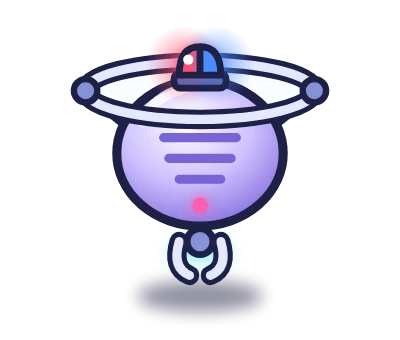
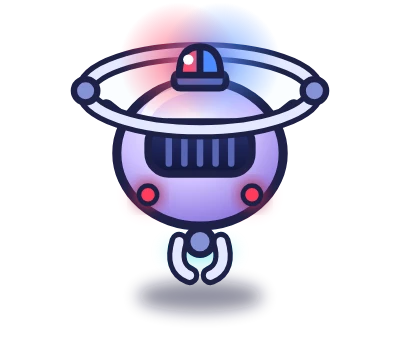
WIP: chase mirror + chevrons, starfield sky, police_front/drone_front, countdown below mirror
Claude-Session: https://claude.ai/code/session_011bftBeXudnSzAMBxDFXhpR

Changed region(s): [[0.21, 0.0294, 0.81, 0.6471]]

diff --git a/engine.js b/engine.js
@@ -3772,7 +3772,8 @@ function r3Rivals() {
 function r3ChaseInit() {
   const C = RACE.chase, base = r3Img(C.sprite); if (!base) return;
   const rid = C.rider ? r3Img(C.rider) : null;
-  R3.chaser = { name: C.name || "", img: r3Tint(base, C.tint || null), rider: rid ? r3Tint(rid, C.riderTint || null) : null,
+  const fr = C.front ? r3Img(C.front) : null;
+  R3.chaser = { name: C.name || "", img: r3Tint(base, C.tint || null), rider: rid ? r3Tint(rid, C.riderTint || null) : null, front: fr,
     scale: C.scale || 6.5, x: 0, z: -1e9, speed: 0, set: false };
   R3.count = C.countdown != null ? C.countdown : 3.2; R3.time = 0; R3.sirenT = 0;
 }
@@ -3819,6 +3820,67 @@ function r3Siren() {
     g.addColorStop(0, `rgba(${c},${a.toFixed(3)})`); g.addColorStop(1, `rgba(${c},0)`);
     ctx.fillStyle = g; ctx.fillRect(x === 0 ? 0 : W * 0.66, 0, W * 0.34, H);
   });
+}
+// how close the pursuer is: 0 (start gap x1.6 or more) → 1 (caught)
+function r3Close() {
+  const ch = R3.chaser; if (!ch || !ch.set) return 0;
+  return R3.caught ? 1 : clamp(1 - (r3PlayerZ() - ch.z) / (R3.segLen * (RACE.chase.startGap || 30) * 1.6), 0, 1);
+}
+// A REAR-VIEW MIRROR at the top of the screen (race.chase.front = the pursuer seen from the front): the road behind
+// recedes to a horizon and the pursuer grows as it closes in, its lights flashing. race.chase.mirror:false hides it.
+function r3Mirror() {
+  const ch = R3.chaser, C = RACE.chase; if (!ch || !ch.set || C.mirror === false || R3.caught) return;
+  const ctx = R3.ctx, W = R3.W, H = R3.H, col = raceColors(), close = r3Close();
+  const mw = Math.min(W * 0.46, 230), mh = mw * 0.42, mx = (W - mw) / 2, my = Math.max(150, H * 0.17), rad = mh * 0.45;
+  const rr = (x, y, w, h, r) => { ctx.beginPath(); ctx.moveTo(x + r, y); ctx.arcTo(x + w, y, x + w, y + h, r); ctx.arcTo(x + w, y + h, x, y + h, r); ctx.arcTo(x, y + h, x, y, r); ctx.arcTo(x, y, x + w, y, r); ctx.closePath(); };
+  ctx.save();
+  // frame + drop shadow
+  ctx.shadowColor = "rgba(0,0,0,.35)"; ctx.shadowBlur = 10; ctx.shadowOffsetY = 4;
+  rr(mx - 5, my - 5, mw + 10, mh + 10, rad + 5); ctx.fillStyle = C.mirrorFrame || "#2a2340"; ctx.fill();
+  ctx.shadowColor = "transparent";
+  rr(mx, my, mw, mh, rad); ctx.clip();
+  // what is behind: sky, ground, the road narrowing to the horizon (mirrored: no left/right sway needed)
+  const hz = my + mh * 0.38, g = ctx.createLinearGradient(0, my, 0, hz);
+  g.addColorStop(0, col.sky[1]); g.addColorStop(1, col.sky[2]); ctx.fillStyle = g; ctx.fillRect(mx, my, mw, hz - my);
+  if (col.stars) { ctx.fillStyle = "#fff"; const rnd = r3Rng(77); for (let i = 0; i < 14; i++) { ctx.globalAlpha = 0.5 + 0.5 * rnd(); ctx.fillRect(mx + rnd() * mw, my + rnd() * (hz - my), 1.2, 1.2); } ctx.globalAlpha = 1; }
+  ctx.fillStyle = col.ground; ctx.fillRect(mx, hz, mw, my + mh - hz);
+  ctx.fillStyle = col.road[0]; ctx.beginPath(); ctx.moveTo(mx + mw * 0.48, hz); ctx.lineTo(mx + mw * 0.52, hz); ctx.lineTo(mx + mw * 0.9, my + mh); ctx.lineTo(mx + mw * 0.1, my + mh); ctx.closePath(); ctx.fill();
+  ctx.strokeStyle = col.lane || "#fff"; ctx.lineWidth = 1.5; ctx.setLineDash([5, 6]); ctx.lineDashOffset = -(R3.pos * 0.05) % 11;
+  ctx.beginPath(); ctx.moveTo(mx + mw * 0.5, hz); ctx.lineTo(mx + mw * 0.5, my + mh); ctx.stroke(); ctx.setLineDash([]);
+  // the pursuer: tiny on the horizon when far, big at the bottom when close
+  const img = ch.front || ch.img;
+  if (img) {
+    const k = 0.18 + close * 0.95, w = mw * 0.5 * k, h = w * img.height / img.width, x = mx + mw / 2 - w / 2 - (R3.playerX - ch.x) * mw * 0.08;
+    const y = hz + (my + mh - hz) * (0.05 + close * 0.85) - h * 0.85;
+    ctx.drawImage(img, x, y, w, h);
+    // flashing lights in the mirror
+    const on = Math.floor(R3.sirenT * 2) % 2, cols = C.sirenColors || ["255,60,80", "60,120,255"];
+    [[-0.25, cols[on]], [0.25, cols[1 - on]]].forEach(([dx, c]) => {
+      const gx = x + w / 2 + dx * w, gy = y + h * 0.12, gr = ctx.createRadialGradient(gx, gy, 0, gx, gy, w * 0.35);
+      gr.addColorStop(0, `rgba(${c},.75)`); gr.addColorStop(1, `rgba(${c},0)`); ctx.fillStyle = gr; ctx.fillRect(gx - w * 0.35, gy - w * 0.35, w * 0.7, w * 0.7);
+    });
+  }
+  // glass sheen
+  const sh = ctx.createLinearGradient(mx, my, mx + mw, my + mh); sh.addColorStop(0, "rgba(255,255,255,.18)"); sh.addColorStop(0.4, "rgba(255,255,255,0)");
+  ctx.fillStyle = sh; ctx.fillRect(mx, my, mw, mh);
+  ctx.restore();
+  R3.mirrorRect = { l: mx - 5, t: my - 5, w: mw + 10, h: mh + 10 };
+}
+// red chevrons rising on both sides of the ride: more, brighter and faster as the pursuer closes in
+function r3Chevrons() {
+  if (!R3.chaser || !R3.chaser.set || !R3.carRect || RACE.chase.arrows === false) return;
+  const close = r3Close(); if (close < 0.3) return;
+  const ctx = R3.ctx, c = R3.carRect, n = close > 0.75 ? 3 : close > 0.5 ? 2 : 1, t = (R3.time || 0) * (1.2 + close * 2.5);
+  ctx.save(); ctx.lineJoin = "round"; ctx.lineCap = "round";
+  [c.l - 18, c.l + c.w + 18].forEach((x) => {
+    for (let i = 0; i < n; i++) {
+      const f = (t + i / n) % 1, y = c.t + c.h * (0.95 - f * 0.55), a = Math.sin(f * Math.PI) * (0.5 + close * 0.5), s = 11 + close * 7;
+      ctx.globalAlpha = a; ctx.lineWidth = 7; ctx.strokeStyle = "rgba(30,10,30,.7)";
+      ctx.beginPath(); ctx.moveTo(x - s, y + s * 0.6); ctx.lineTo(x, y - s * 0.4); ctx.lineTo(x + s, y + s * 0.6); ctx.stroke();
+      ctx.lineWidth = 4; ctx.strokeStyle = RACE.chase.arrowColor || "#ff4d6a"; ctx.stroke();
+    }
+  });
+  ctx.restore();
 }
 function r3ChaseResults() {
   const C = RACE.chase, escaped = !R3.caught && r3PlayerZ() >= R3.finishZ, r = escaped ? (C.reward || 0) : (C.caughtReward || 0);
@@ -3900,8 +3962,9 @@ function r3Countdown() {
   ctx.save(); ctx.globalAlpha = Math.min(1, f * 2.2);
   ctx.font = `800 ${Math.round(Math.min(W, H) * (0.22 + (1 - f) * 0.06))}px ${getComputedStyle(document.body).fontFamily || "sans-serif"}`;
   ctx.textAlign = "center"; ctx.textBaseline = "middle"; ctx.lineJoin = "round";
-  ctx.lineWidth = Math.max(6, W * 0.02); ctx.strokeStyle = "rgba(20,14,40,.85)"; ctx.strokeText(txt, W / 2, H * 0.36);
-  ctx.fillStyle = R3.count > 0 ? "#fff" : (raceColors().rumble[1] || "#ffd24a"); ctx.fillText(txt, W / 2, H * 0.36);
+  const cyT = R3.mirrorRect ? Math.max(H * 0.36, R3.mirrorRect.t + R3.mirrorRect.h + Math.min(W, H) * 0.16) : H * 0.36;   // below the mirror
+  ctx.lineWidth = Math.max(6, W * 0.02); ctx.strokeStyle = "rgba(20,14,40,.85)"; ctx.strokeText(txt, W / 2, cyT);
+  ctx.fillStyle = R3.count > 0 ? "#fff" : (raceColors().rumble[1] || "#ffd24a"); ctx.fillText(txt, W / 2, cyT);
   ctx.restore();
 }
 // race.horizon: the horizon height as a fraction of the screen (0.5); lower it (0.4) on tall phones so the road
@@ -3942,13 +4005,26 @@ function r3Render() {
   }
   ctx.restore();
   if (R3.hitFlash > 0) { ctx.fillStyle = "rgba(255,60,60," + (R3.hitFlash * 0.4).toFixed(3) + ")"; ctx.fillRect(0, 0, W, H); }
-  r3Siren();
+  r3Siren(); r3Mirror(); r3Chevrons();
   r3Countdown();
 }
 function r3Sky(C) {
   const ctx = R3.ctx, W = R3.W, H = R3.H, hz = H * r3Hz(), g = ctx.createLinearGradient(0, 0, 0, hz);
   g.addColorStop(0, C.sky[0]); g.addColorStop(0.55, C.sky[1]); g.addColorStop(1, C.sky[2]);
   ctx.fillStyle = g; ctx.fillRect(0, 0, W, hz);
+  // colors.stars {count, color, twinkle}: a starfield in the sky (space / night races), with a slight parallax
+  if (C.stars) {
+    const S = C.stars === true ? {} : C.stars, n = S.count || 90, rnd = r3Rng(4242), t = (R3.time || 0);
+    ctx.fillStyle = S.color || "#ffffff";
+    for (let i = 0; i < n; i++) {
+      const sx = ((rnd() * W * 1.2 - R3.playerX * 18 * (0.5 + rnd())) % (W * 1.2) + W * 1.2) % (W * 1.2) - W * 0.1;
+      const sy = rnd() * hz * 0.96, r = 0.5 + rnd() * 1.4, ph = rnd() * 6.28;
+      ctx.globalAlpha = (S.twinkle === false ? 0.8 : 0.45 + 0.45 * Math.sin(t * (1 + ph % 2) + ph)) * (0.4 + 0.6 * (1 - sy / hz));
+      ctx.beginPath(); ctx.arc(sx, sy, r, 0, Math.PI * 2); ctx.fill();
+      if (r > 1.6) { ctx.globalAlpha *= 0.5; ctx.fillRect(sx - r * 2.2, sy - 0.4, r * 4.4, 0.8); ctx.fillRect(sx - 0.4, sy - r * 2.2, 0.8, r * 4.4); }
+    }
+    ctx.globalAlpha = 1;
+  }
   if (C.sun) {
     // colors.sunPos {x, y, r} (fractions: x of the width, y of the sky height, r of min(W,H)) moves the sun
     // off the centre — the countdown is drawn there

diff --git a/game.config.js b/game.config.js
@@ -144,7 +144,7 @@ window.GAME = {
       critter_back_aqua: { path: "assets/img/critter_back_aqua.webp", res: 2 }, critter_back_lime: { path: "assets/img/critter_back_lime.webp", res: 2 },
       critter_back_violet: { path: "assets/img/critter_back_violet.webp", res: 2 },
       // race: the keeper robot seen from behind, drawn over the critter (character.raceRider)
-      drone_back: { path: "assets/img/drone_back.webp", res: 2 },   // the Escape pursuer (race.chase)
+      drone_back: { path: "assets/img/drone_back.webp", res: 2 }, drone_front: { path: "assets/img/drone_front.webp", res: 2 },   // the Escape pursuer (race.chase)
       rider_back_aqua: { path: "assets/img/rider_back_aqua.webp", res: 2 }, rider_back_amber: { path: "assets/img/rider_back_amber.webp", res: 2 },
       dust: "assets/img/dust.webp", dust_b: "assets/img/dust_b.webp", cloth: "assets/img/cloth.webp",
       want_dust: { path: "assets/img/want_dust.webp", res: 2 },
@@ -324,7 +324,7 @@ window.GAME = {
     horizon: 0.42,                           // tall phones: more road, less empty sky
     // CHASE variant ("Escape"): a security drone starts behind and closes in; obstacles slow you, it catches up
     chase: {
-      name: "the drone", sprite: "drone_back", scale: 5.5, icon: "drone",
+      name: "the drone", sprite: "drone_back", front: "drone_front", scale: 5.5, icon: "drone",
       startGap: 28, skill: [0.9, 1.05], catchGap: 0.8,
       reward: 35, caughtReward: 3, stat: "chaseEscape",
       startMessage: "{i:drone} A security drone is after you! Reach the finish before it catches you!",
@@ -351,7 +351,7 @@ window.GAME = {
       bumpMessage: "Bump! You hit {name}.",
       goLabel: "GO!",
     },
-    colors: { sky: ["#0b1029", "#2a1d6e", "#7a3fc0"], sun: ["#ffd6ef", "#ff5db1"], sunPos: { x: 0.78, y: 0.55, r: 0.07 }, skyline: false, ground: "#0e1430",
+    colors: { sky: ["#0b1029", "#2a1d6e", "#7a3fc0"], sun: ["#ffd6ef", "#ff5db1"], sunPos: { x: 0.78, y: 0.55, r: 0.07 }, stars: { count: 110, color: "#e9f3ff" }, skyline: false, ground: "#0e1430",
               grass: ["#18214a", "#141c43"], road: ["#2e3b78", "#283470"], rumble: ["#3fe0e8", "#ff5db1"], lane: "#bff6ff", finish: ["#ffffff", "#1d2147"] },
     icons: { time: "timer", distance: "distance", speed: "speed", quit: "quit", left: "left", right: "right", place: "flag" },
     quitLabel: "Quit", hint: "Tap left or right to steer",

diff --git a/ENGINE.md b/ENGINE.md
@@ -538,6 +538,15 @@ race: { time, reward, stat:"raceWin", hitPenalty, sprite, rideWidth:0.32 /* ride
   startMessage, hitMessage("{n}"), winMessage("{r}"), loseMessage, quitMessage }
 // drain (per s, default 2.4): the ride's fatigue need burns while racing; at 0 the ride slows to tiredSpeed (0.5)
 // for the rest of the race (tiredMessage("{name}")), or to ride.emptySpeed with ride.empty:"slow".
+// chase (optional; an action with mode:"chase") — escape a pursuer to the finish:
+//   chase: { name, sprite /* rear view, shown when it catches you */, front /* front view, in the mirror */, tint?, scale,
+//            icon, startGap:30 /* segments behind */, skill:[0.9,1.04] /* its pace, ramping over the race */, catchGap:0.8,
+//            reward, caughtReward, stat:"chaseEscape", mirror:true, arrows:true, arrowColor, siren:true, sirenColors,
+//            startMessage, hitMessage, caughtMessage("{name}"), resultsTitle, escapeMessage, escapeHint("{t}"),
+//            caughtTitle, caughtHint, goLabel }
+//   HUD: a gauge + distance to the pursuer; a REAR-VIEW MIRROR (top centre) shows it growing as it closes in;
+//   red chevrons rise beside the ride and a red/blue glow pulses on the edges when it is near. Caught = it pulls
+//   alongside and passes, then the "caught" result. Probe: probes/racechase.cjs.
 // rivals (optional) — a REAL race instead of a time trial: a fixed field to overtake.
 //   rivals: { list:[{ name, sprite, tint?, rider?, riderTint?, color? /* results swatch */, scale?, hw? }], count?, scale:6.5, hw:0.28,
 //             lanes:[-0.45,0.45] /* grid lanes */, gridFirst:0 /* segments before the first row */,
@@ -553,7 +562,8 @@ race: { time, reward, stat:"raceWin", hitPenalty, sprite, rideWidth:0.32 /* ride
 //   raceWin (1st), racePodium (top 3), raceBest. A rival = sprite (tinted) + optional rider layer (tinted).
 //   Probe: probes/racerivals.cjs.
 // horizon: 0.5 (fraction of the screen; 0.4 fills a tall phone with road); colors.sunPos:{x,y,r} moves the sun
-// off the centre (the countdown is drawn there); colors.sunOutline:"#hex" outlines it. rivals.startLine:false hides
+// off the centre (the countdown is drawn there); colors.sunOutline:"#hex" outlines it; colors.stars:{count,color,twinkle} draws a
+// twinkling starfield in the sky (space / night). rivals.startLine:false hides
 // the chequered start line drawn just ahead of the player.
 // showNeed (default true): the ride's fatigue need (e.g. fuel) as a gauge under the HUD chips — turns red and
 // pulses below 25 %, so a ride slowing down mid-race (empty tank, ride.empty:"slow") is understood. false hides it.
